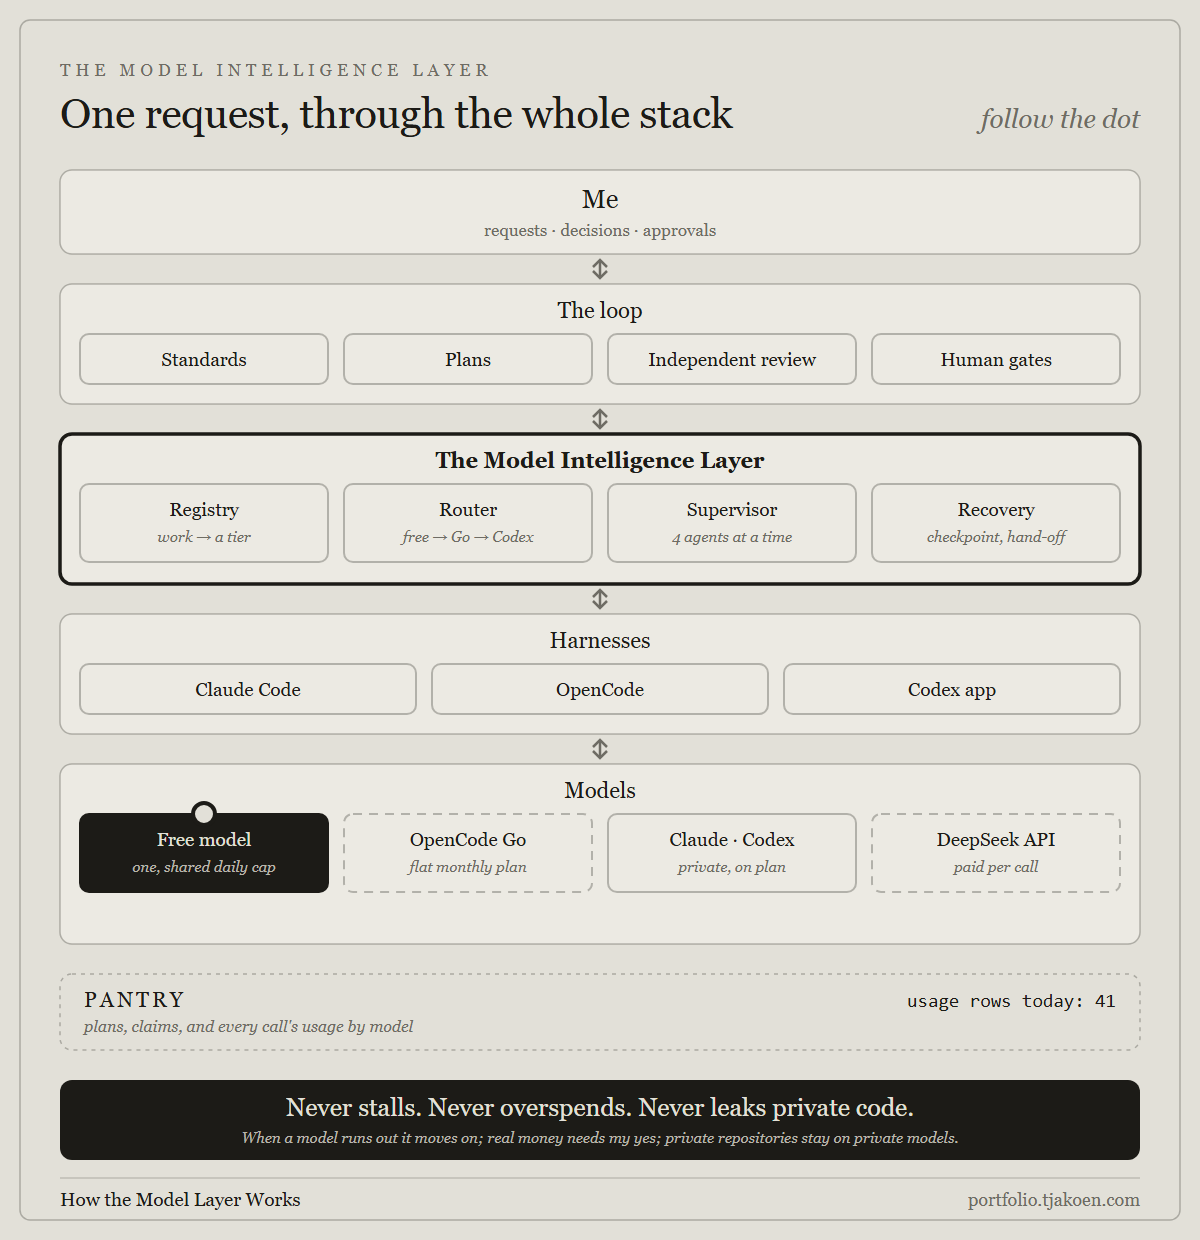
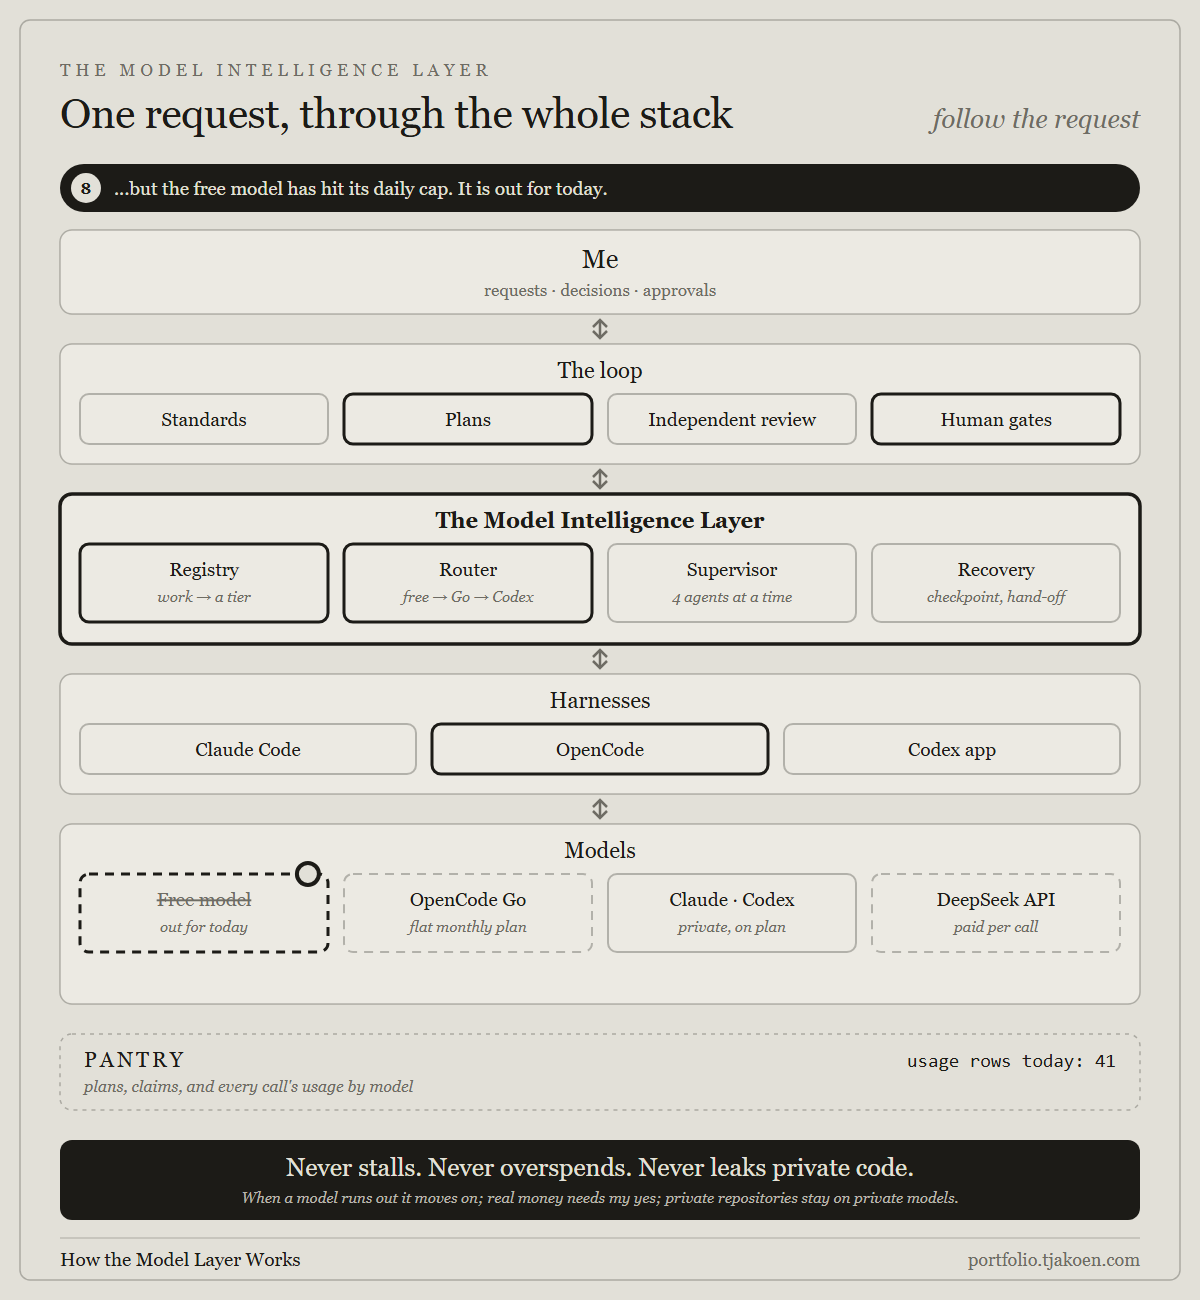
🎨 Narrate the architecture infographic and slow it down
- Add a numbered caption bar that says what is happening at each step of the request
- Keep an ink outline on every tile the request has passed, as a trail
- Slow the loop to ten seconds at six frames a second, which keeps the GIF under 4 MB

diff --git a/tools/social-gif-model-layer-architecture.ts b/tools/social-gif-model-layer-architecture.ts
@@ -16,10 +16,10 @@ import { mkdir, readFile, writeFile } from "node:fs/promises";
 import { join } from "node:path";
 
 const ROOT = join(import.meta.dir, "..");
-const W = 1200, H = 1240;
+const W = 1200, H = 1300;
 const PAPER = "#E2E0D8", CARD = "#ECEAE3", INK = "#1C1B17", MUTED = "#6E6C64", LINE = "rgba(28,27,23,.28)";
 const HOST = "portfolio.tjakoen.com";
-const FPS = 10, PERIOD = 5;
+const FPS = 6, PERIOD = 10;
 const X0 = 60, BW = W - 2 * X0;
 
 const clamp = (v: number) => Math.max(0, Math.min(1, v));
@@ -35,15 +35,15 @@ interface Tile { key: string; t: string; s?: string; dashed?: boolean }
 interface Band { key: string; y: number; h: number; title: string; sub?: string; heavy?: boolean; tileH?: number; tiles?: Tile[] }
 
 const bands: Band[] = [
-  { key: "you", y: 170, h: 84, title: "Me", sub: "requests · decisions · approvals" },
-  { key: "loop", y: 284, h: 120, title: "The loop", tileH: 50, tiles: [
+  { key: "you", y: 230, h: 84, title: "Me", sub: "requests · decisions · approvals" },
+  { key: "loop", y: 344, h: 120, title: "The loop", tileH: 50, tiles: [
     { key: "standards", t: "Standards" }, { key: "plans", t: "Plans" }, { key: "review", t: "Independent review" }, { key: "gates", t: "Human gates" }] },
-  { key: "mil", y: 434, h: 150, title: "The Model Intelligence Layer", heavy: true, tileH: 78, tiles: [
+  { key: "mil", y: 494, h: 150, title: "The Model Intelligence Layer", heavy: true, tileH: 78, tiles: [
     { key: "registry", t: "Registry", s: "work → a tier" }, { key: "router", t: "Router", s: "free → Go → Codex" },
     { key: "supervisor", t: "Supervisor", s: "4 agents at a time" }, { key: "recovery", t: "Recovery", s: "checkpoint, hand-off" }] },
-  { key: "harness", y: 614, h: 120, title: "Harnesses", tileH: 50, tiles: [
+  { key: "harness", y: 674, h: 120, title: "Harnesses", tileH: 50, tiles: [
     { key: "claude", t: "Claude Code" }, { key: "opencode", t: "OpenCode" }, { key: "codex", t: "Codex app" }] },
-  { key: "models", y: 764, h: 180, title: "Models", tileH: 78, tiles: [
+  { key: "models", y: 824, h: 180, title: "Models", tileH: 78, tiles: [
     { key: "free", t: "Free model", s: "one, shared daily cap", dashed: true },
     { key: "go", t: "OpenCode Go", s: "flat monthly plan", dashed: true },
     { key: "private", t: "Claude · Codex", s: "private, on plan" },
@@ -62,21 +62,24 @@ const centre = (k: string) => ({ x: geo[k].x + geo[k].w / 2, y: geo[k].y });
 
 // The request's day, as stations on a loop from 0 to 1. The dot moves between stations; the station it last
 // reached is lit. Stations listed twice hold the dot there.
-const STATIONS: { s: number; at: string; lit: string[] }[] = [
-  { s: 0.00, at: "you", lit: ["you"] },
-  { s: 0.06, at: "you", lit: ["you"] },
-  { s: 0.14, at: "plans", lit: ["plans"] },
-  { s: 0.22, at: "gates", lit: ["gates"] },
-  { s: 0.31, at: "registry", lit: ["registry"] },
-  { s: 0.39, at: "router", lit: ["router"] },
-  { s: 0.46, at: "opencode", lit: ["opencode"] },
-  { s: 0.53, at: "free", lit: ["free"] },
-  { s: 0.60, at: "free", lit: [] },
-  { s: 0.66, at: "go", lit: ["go"] },
-  { s: 0.80, at: "go", lit: ["go"] },
-  { s: 0.92, at: "you", lit: ["you"] },
-  { s: 1.00, at: "you", lit: ["you"] },
+const STATIONS: { s: number; at: string; lit: string[]; say: string }[] = [
+  { s: 0.00, at: "you", lit: ["you"], say: "I ask for some light work: read a few files and sum them up." },
+  { s: 0.07, at: "you", lit: ["you"], say: "I ask for some light work: read a few files and sum them up." },
+  { s: 0.15, at: "plans", lit: ["plans"], say: "It becomes a plan, so the work and its cost are tracked." },
+  { s: 0.23, at: "gates", lit: ["gates"], say: "It passes the human gates: nothing here needs my approval." },
+  { s: 0.31, at: "registry", lit: ["registry"], say: "The registry turns \"light work\" into a tier, not a fixed model." },
+  { s: 0.39, at: "router", lit: ["router"], say: "The router picks the first model in that tier that is not out." },
+  { s: 0.46, at: "opencode", lit: ["opencode"], say: "It runs as a subagent in OpenCode." },
+  { s: 0.53, at: "free", lit: ["free"], say: "It tries the free model first. It costs nothing..." },
+  { s: 0.59, at: "free", lit: [], say: "...but the free model has hit its daily cap. It is out for today." },
+  { s: 0.66, at: "go", lit: ["go"], say: "So Go takes the work, on the flat monthly plan. Nothing stalls." },
+  { s: 0.74, at: "go", lit: ["go"], say: "Meanwhile private repos stay on Claude and Codex, and paid calls wait for my yes." },
+  { s: 0.84, at: "go", lit: ["go"], say: "The answer is ready." },
+  { s: 0.92, at: "you", lit: ["you"], say: "It comes back to me, and PANTRY logs which model did the work." },
+  { s: 1.00, at: "you", lit: ["you"], say: "It comes back to me, and PANTRY logs which model did the work." },
 ];
+// The tiles a request has passed keep a dark outline for the rest of the loop: the trail.
+const visitedBy = (ph: number) => new Set(STATIONS.filter((st) => st.s <= ph).map((st) => st.at));
 const ease = (v: number) => v * v * (3 - 2 * v);
 
 function frame(t: number): string {
@@ -85,7 +88,8 @@ function frame(t: number): string {
   while (i < STATIONS.length - 2 && STATIONS[i + 1].s <= ph) i++;
   const a = STATIONS[i], b = STATIONS[i + 1], k = ease(clamp((ph - a.s) / Math.max(1e-6, b.s - a.s)));
   const pa = centre(a.at), pb = centre(b.at), dot = { x: pa.x + (pb.x - pa.x) * k, y: pa.y + (pb.y - pa.y) * k };
-  const lit = new Set(a.lit), freeOut = ph >= 0.56, locks = clamp(Math.min((ph - 0.66) / 0.04, (0.86 - ph) / 0.04)), logged = ph >= 0.9;
+  const lit = new Set(a.lit), seen = visitedBy(ph), freeOut = ph >= 0.59, locks = clamp(Math.min((ph - 0.74) / 0.03, (0.86 - ph) / 0.03)), logged = ph >= 0.92;
+  const step = STATIONS.slice(0, i + 1).filter((st, j, all) => j === 0 || st.say !== all[j - 1].say).length;
 
   const out: string[] = [];
   for (const band of bands) {
@@ -95,7 +99,7 @@ function frame(t: number): string {
     else out.push(mid(W / 2, g.y + 38, band.title, 26, on ? PAPER : INK), mid(W / 2, g.y + 66, band.sub!, 17, on ? "#B9B6AC" : MUTED));
     for (const tile of band.tiles ?? []) {
       const tg = geo[tile.key], hot = lit.has(tile.key), struck = tile.key === "free" && freeOut;
-      out.push(`<rect x="${tg.x}" y="${tg.y}" width="${tg.w}" height="${tg.h}" rx="9" style="fill:${hot ? INK : "none"};stroke:${hot ? INK : LINE};stroke-width:2${tile.dashed && !hot ? ";stroke-dasharray:9 7" : ""}"/>`);
+      out.push(`<rect x="${tg.x}" y="${tg.y}" width="${tg.w}" height="${tg.h}" rx="9" style="fill:${hot ? INK : "none"};stroke:${hot || seen.has(tile.key) ? INK : LINE};stroke-width:${!hot && seen.has(tile.key) ? 3 : 2}${tile.dashed && !hot ? ";stroke-dasharray:9 7" : ""}"/>`);
       const ty = tile.s ? tg.y + 32 : tg.y + tg.h / 2 + 7;
       out.push(mid(tg.x + tg.w / 2, ty, tile.t, 19, hot ? PAPER : struck ? MUTED : INK, struck ? ";text-decoration:line-through" : ""));
       if (tile.s) out.push(mid(tg.x + tg.w / 2, tg.y + 58, struck ? "out for today" : tile.s, 15, hot ? "#B9B6AC" : MUTED, ";font-style:italic"));
@@ -114,7 +118,7 @@ function frame(t: number): string {
     }
   }
   // PANTRY, underneath everything.
-  const py = 974;
+  const py = 1034;
   out.push(`<rect x="${X0}" y="${py}" width="${BW}" height="76" rx="12" style="fill:none;stroke:${LINE};stroke-width:1.5;stroke-dasharray:4 5"/>`,
     left(X0 + 24, py + 33, "PANTRY", 21, INK, ";letter-spacing:3px"),
     left(X0 + 24, py + 58, "plans, claims, and every call's usage by model", 16, MUTED, ";font-style:italic"),
@@ -123,13 +127,17 @@ function frame(t: number): string {
   // The request itself.
   out.push(`<circle cx="${dot.x}" cy="${dot.y}" r="11" style="fill:${PAPER};stroke:${INK};stroke-width:4"/>`);
 
-  const by = 1080;
+  const by = 1140;
   return `<svg width="${W}" height="${H}" viewBox="0 0 ${W} ${H}" xmlns="http://www.w3.org/2000/svg" font-family="Georgia, 'Times New Roman', serif">
 <rect width="${W}" height="${H}" style="fill:${PAPER}"/>
 <rect x="20" y="20" width="${W - 40}" height="${H - 40}" rx="10" style="fill:none;stroke:${LINE};stroke-width:1.5"/>
 ${left(X0, 76, "THE MODEL INTELLIGENCE LAYER", 17, MUTED, ";letter-spacing:5px")}
 ${left(X0, 128, "One request, through the whole stack", 42, INK, ";letter-spacing:-0.5px")}
-${right(W - X0, 128, "follow the dot", 26, MUTED, ";font-style:italic")}
+${right(W - X0, 128, "follow the request", 26, MUTED, ";font-style:italic")}
+<rect x="${X0}" y="164" width="${BW}" height="48" rx="24" style="fill:${INK}"/>
+<circle cx="${X0 + 26}" cy="188" r="15" style="fill:${PAPER}"/>
+${mid(X0 + 26, 194, String(step), 16, INK, ";font-weight:bold")}
+${left(X0 + 54, 195, a.say, 19, PAPER)}
 ${out.join("\n")}
 <rect x="${X0}" y="${by}" width="${BW}" height="80" rx="12" style="fill:${INK}"/>
 ${mid(W / 2, by + 36, "Never stalls. Never overspends. Never leaks private code.", 25, PAPER)}
@@ -170,7 +178,7 @@ try {
   await mkdir(OUT, { recursive: true });
   await writeFile(join(OUT, "model-layer-architecture.gif"), new Uint8Array(bytes));
   // Two stills for review: the request on the free model, and on Go with both locks showing.
-  for (const [name, at] of [["free", 0.55], ["go", 0.75]] as const) {
+  for (const [name, at] of [["free", 0.62], ["go", 0.78]] as const) {
     await pg.setContent(`<!doctype html><html><body style="margin:0">${frame(at * PERIOD)}</body></html>`);
     await writeFile(join(OUT, `model-layer-architecture-${name}.png`), await pg.screenshot({ clip: { x: 0, y: 0, width: W, height: H } }));
   }
